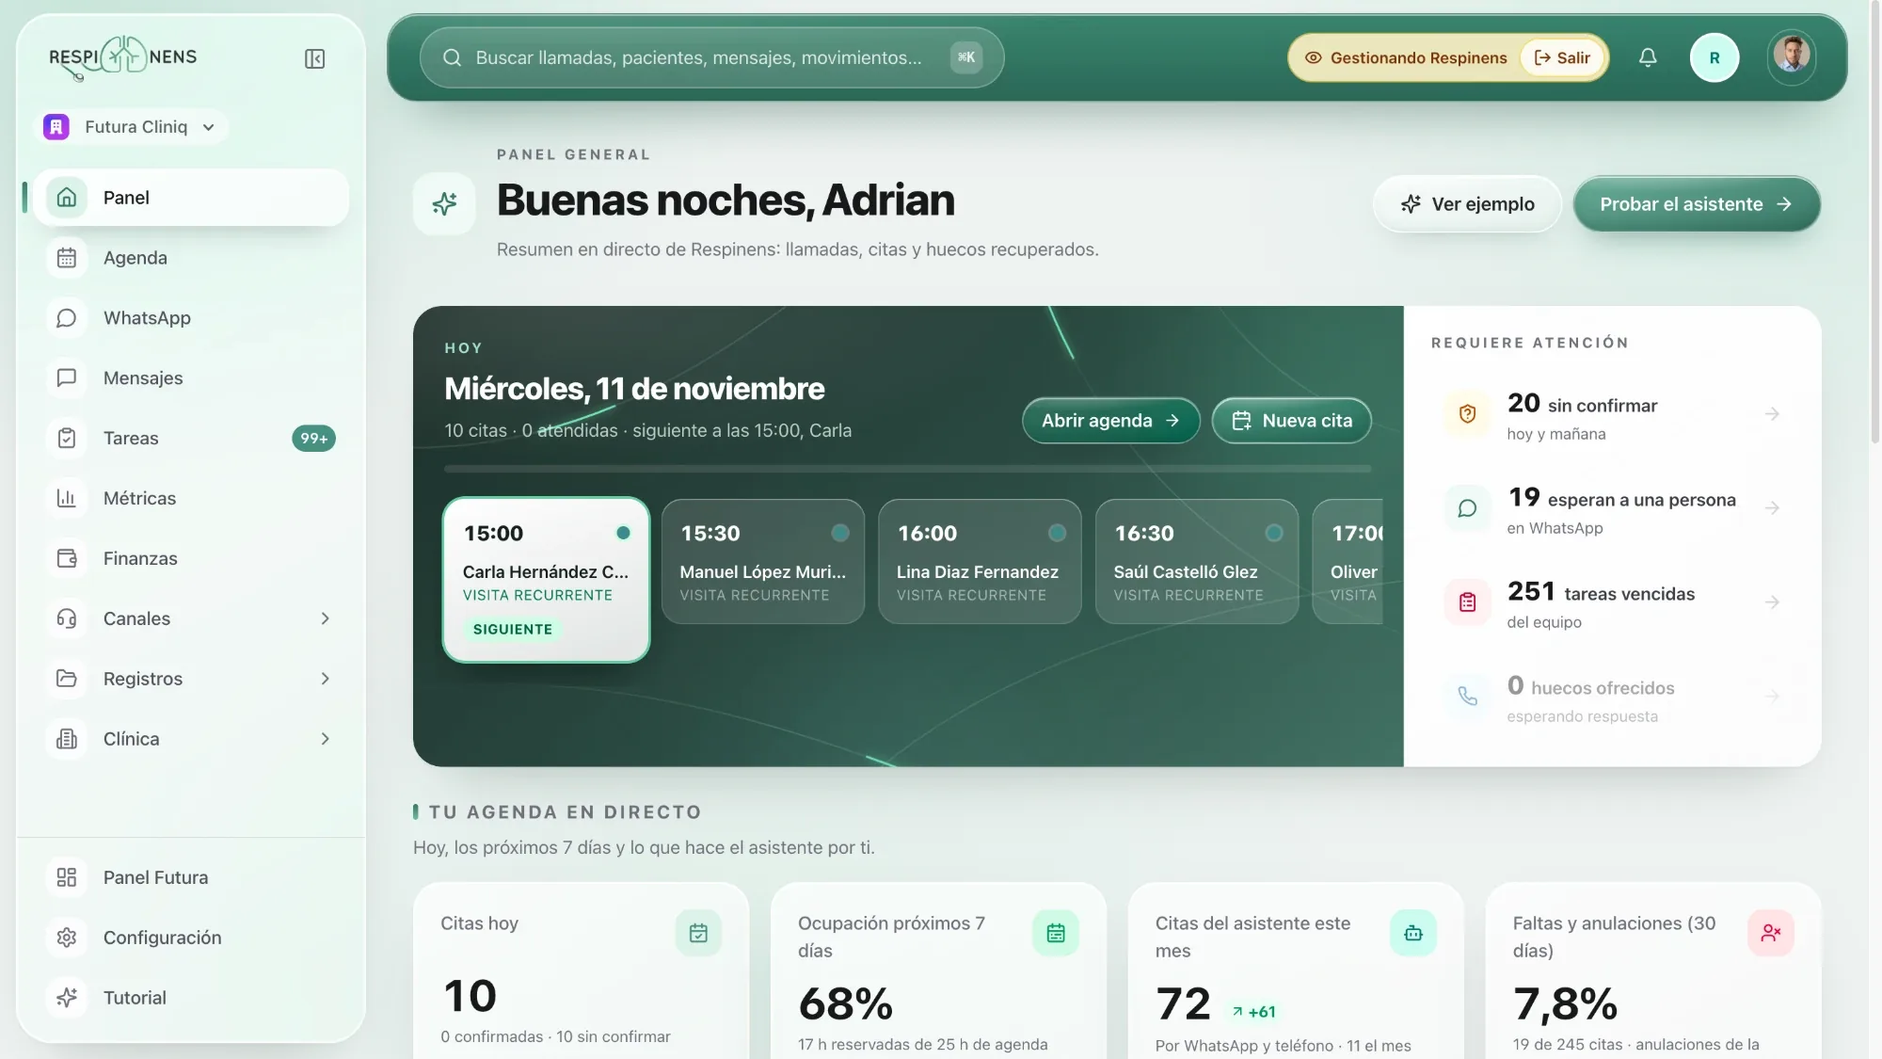
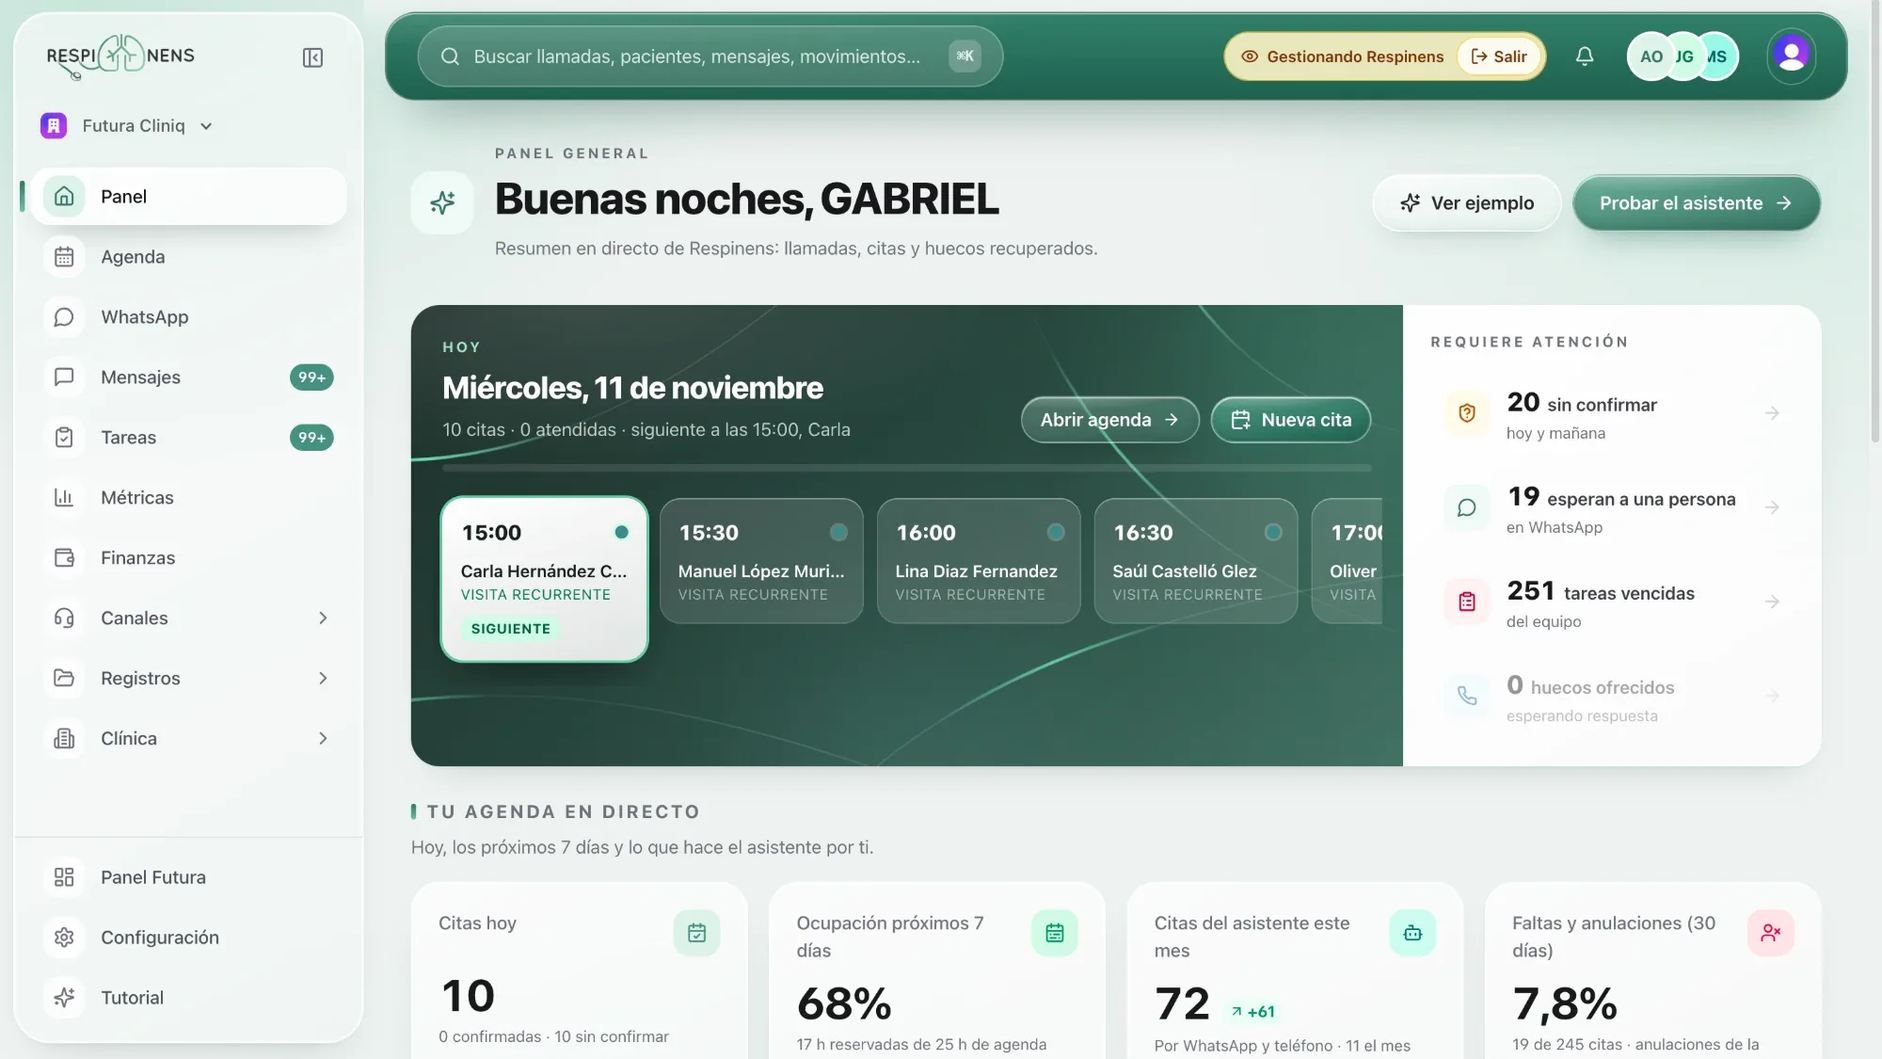
feat: Smile Fast case study; new FUTURA cover
- Smile Fast card (Brandboost AI product): animated before/after smile
  slider as preview, official logo
- Modal: slider cover, intro, stats (+38% visitor to lead, 65% of leads
  book, from the product site), the four real patient-journey screens,
  five value cards with motions and benefit chips (realistic simulation,
  AI clinical analysis, instant qualified lead, realistic video, funnel)
- Example phone number blurred in the first journey screen
- FUTURA cover replaced with the new dashboard screenshot

Claude-Session: https://claude.ai/code/session_013VtYwE7Ekungkn3F8TWYDq

diff --git a/src/components/project/smile-motions.tsx b/src/components/project/smile-motions.tsx
@@ -1,0 +1,127 @@
+"use client";
+
+import { Frame } from "@/components/project/motions";
+
+/* Before / after slider: the "after" layer is revealed by a moving divider. */
+export function BeforeAfter({ className = "", labels = true }: { className?: string; labels?: boolean }) {
+  return (
+    <div className={`overflow-hidden ${className}`}>
+      {/* eslint-disable-next-line @next/next/no-img-element */}
+      <img src="/smilefast/before.webp" alt="Antes" className="absolute inset-0 w-full h-full object-cover object-[50%_35%]" />
+      <div className="sf-after absolute inset-0">
+        {/* eslint-disable-next-line @next/next/no-img-element */}
+        <img src="/smilefast/after.webp" alt="Simulación" className="absolute inset-0 w-full h-full object-cover object-[50%_35%]" />
+      </div>
+      <span className="sf-divider absolute inset-y-0 w-[2px] bg-white shadow-[0_0_12px_rgba(0,0,0,0.35)]">
+        <span className="absolute top-1/2 left-1/2 -translate-x-1/2 -translate-y-1/2 w-8 h-8 rounded-full bg-white/90 border border-white shadow-lg grid place-items-center text-[11px] text-carbon-950">‹›</span>
+      </span>
+      {labels && (
+        <>
+          <span className="absolute left-3 top-3 rounded-full bg-black/45 px-2.5 py-1 text-[9px] font-semibold tracking-[0.16em] text-white backdrop-blur-sm">ANTES</span>
+          <span className="absolute right-3 top-3 rounded-full bg-ember-500 px-2.5 py-1 text-[9px] font-semibold tracking-[0.16em] text-white">PROYECCIÓN</span>
+        </>
+      )}
+    </div>
+  );
+}
+export function MSim() {
+  return (
+    <div className="absolute inset-0 p-2">
+      <BeforeAfter className="relative w-full h-full rounded-lg" />
+    </div>
+  );
+}
+
+// Clinical analysis: VITA shade scale, target lands on B1
+const SHADES = ["#f6f1e4", "#f1ead7", "#ece2c8", "#e6d8b6", "#ddcca2", "#d3be8d"];
+export function MVita() {
+  const labels = ["B1", "A1", "B2", "A2", "A3", "A3.5"];
+  return (
+    <Frame label="Tono VITA · 6 parámetros">
+      <div className="absolute inset-0 flex flex-col justify-center gap-2">
+        <div className="relative flex gap-1.5">
+          {SHADES.map((c, i) => (
+            <div key={i} className="flex-1 flex flex-col items-center gap-1">
+              <span className="w-full h-9 rounded-md" style={{ background: c }} />
+              <span className="text-[9px] text-white/50">{labels[i]}</span>
+            </div>
+          ))}
+          <span className="sf-target absolute top-[-4px] h-[44px] rounded-lg border-2 border-ember-500 shadow-[0_0_14px_rgba(255,90,31,0.6)]" />
+        </div>
+        <span className="flex gap-1.5 text-[9px] text-white/45">
+          {["Proporción áurea", "Arco", "Encía"].map((t) => (
+            <span key={t} className="rounded-full border border-white/10 px-2 py-[2px]">{t}</span>
+          ))}
+        </span>
+      </div>
+    </Frame>
+  );
+}
+
+// Qualified lead lands in the panel and moves to booked
+export function MLead() {
+  return (
+    <Frame label="Panel · Leads">
+      <div className="absolute inset-0 flex items-center">
+        <div className="sf-lead w-full flex items-center gap-3 rounded-xl border border-white/10 bg-white/[0.05] px-3 py-2.5">
+          <span className="relative w-9 h-9 rounded-lg overflow-hidden shrink-0">
+            {/* eslint-disable-next-line @next/next/no-img-element */}
+            <img src="/smilefast/after.webp" alt="" className="w-full h-full object-cover object-[50%_30%]" />
+          </span>
+          <span className="flex-1 min-w-0">
+            <span className="block text-[11px] font-semibold text-white">María F.</span>
+            <span className="block text-[9px] text-white/50 whitespace-nowrap">Simulación · WhatsApp</span>
+          </span>
+          <span className="relative h-5 w-[78px] text-[9px] font-semibold">
+            <span className="sf-st sf-st-1 absolute inset-0 grid place-items-center rounded-full bg-ember-500 text-white">NUEVO</span>
+            <span className="sf-st sf-st-2 absolute inset-0 grid place-items-center rounded-full bg-white/10 text-white/80">Contactado</span>
+            <span className="sf-st sf-st-3 absolute inset-0 grid place-items-center rounded-full bg-white text-carbon-950">✓ Cita</span>
+          </span>
+        </div>
+      </div>
+    </Frame>
+  );
+}
+
+// Realistic video of the new smile
+export function MVideo() {
+  return (
+    <div className="absolute inset-0 p-2">
+      <div className="relative w-full h-full rounded-lg overflow-hidden">
+        {/* eslint-disable-next-line @next/next/no-img-element */}
+        <img src="/smilefast/after.webp" alt="" className="sf-kb absolute inset-0 w-full h-full object-cover object-[50%_32%]" />
+        <div className="absolute inset-0 bg-gradient-to-t from-black/60 via-transparent to-transparent" />
+        <span className="absolute left-3 top-3 rounded-full bg-black/45 px-2.5 py-1 text-[9px] font-semibold tracking-[0.16em] text-white backdrop-blur-sm">VÍDEO REALISTA</span>
+        <div className="absolute left-3 right-3 bottom-3 flex items-center gap-2.5">
+          <span className="w-6 h-6 rounded-full bg-white grid place-items-center">
+            <svg viewBox="0 0 12 12" className="w-2.5 h-2.5 ml-[1px]"><path d="M3 2l7 4-7 4z" fill="#0a0a0a" /></svg>
+          </span>
+          <span className="relative flex-1 h-1 rounded-full bg-white/30 overflow-hidden">
+            <span className="sf-progress absolute inset-0 bg-ember-500 origin-left" />
+          </span>
+        </div>
+      </div>
+    </div>
+  );
+}
+
+// Funnel: visitor -> simulates -> lead -> booked
+export function MFunnel() {
+  const steps = ["Visitante", "Se simula", "Deja sus datos", "Agenda"];
+  return (
+    <Frame label="Embudo">
+      <div className="absolute inset-0 flex items-center px-6">
+        <div className="relative w-full flex justify-between">
+          <span className="absolute left-3 right-3 top-[9px] h-px bg-white/12" />
+          <span className="sf-flow absolute top-[5px] w-2.5 h-2.5 -ml-[5px] rounded-full bg-ember-500 shadow-[0_0_12px_rgba(255,90,31,0.9)]" />
+          {steps.map((s, i) => (
+            <span key={s} className="relative flex flex-col items-center gap-2 w-0">
+              <span className={`sf-node sf-node-${i} w-[18px] h-[18px] rounded-full border border-white/20 bg-[#121010]`} />
+              <span className="whitespace-nowrap text-[10px] text-white/55">{s}</span>
+            </span>
+          ))}
+        </div>
+      </div>
+    </Frame>
+  );
+}

diff --git a/src/lib/i18n.tsx b/src/lib/i18n.tsx
@@ -17,6 +17,33 @@ const translations: Record<Language, Translations> = {
     fin_v_comprobantes_benefit: "Menos riesgo",
     fin_v_entradas_benefit: "Más tiempo libre",
     synex_eyebrow: "Caso propio",
+    sf_tag: "Producto · Brandboost AI",
+    sf_card_roi: "Simulación de sonrisa con IA para clínicas dentales: el visitante **ve su nueva sonrisa**, deja sus datos y agenda.",
+    sf_tags: "IA generativa, Captación de leads, Clínicas dentales, Vídeo",
+    sf_title: "La herramienta que llena la clínica.",
+    sf_desc: "Los visitantes de la web de una clínica dental suben una selfie, **ven su nueva sonrisa al instante** y dejan sus datos listos para agendar. Activo en 1 día, con la marca de cada clínica.",
+    sf_stat_1: "de visitante a lead",
+    sf_stat_2: "de esos leads agenda cita",
+    sf_step_1: "Deja sus datos: ya es un lead.",
+    sf_step_2: "Sube una selfie, sin descargas.",
+    sf_step_3: "La IA analiza su sonrisa.",
+    sf_step_4: "Ve su antes y después y agenda.",
+    sf_v_sim_title: "Simulación realista",
+    sf_v_sim_desc: "Una vista fotorrealista de su sonrisa post-tratamiento: la duda se convierte en **ganas de agendar**.",
+    sf_v_sim_benefit: "Más pacientes de alto valor",
+    sf_v_analisis_title: "Análisis clínico con IA",
+    sf_v_analisis_desc: "Analiza **6 parámetros clínicos**: tono VITA, inventario dental, macroestética, proporción áurea, arco y encía.",
+    sf_v_analisis_benefit: "Resultados creíbles",
+    sf_v_lead_title: "Lead cualificado al instante",
+    sf_v_lead_desc: "Nombre, email y WhatsApp **junto a su simulación**, en el panel de la clínica para contactar en la primera hora.",
+    sf_v_lead_benefit: "Más citas",
+    sf_v_video_title: "Vídeo realista",
+    sf_v_video_desc: "Además de la foto, el paciente **se ve sonreír en movimiento**: lo que termina de convencerlo.",
+    sf_v_video_benefit: "Más planes aceptados",
+    sf_v_embudo_title: "Embudo que convierte",
+    sf_v_embudo_desc: "Del clic anónimo al paciente nuevo: el visitante **se simula, deja sus datos y agenda con intención**.",
+    sf_v_embudo_benefit: "Menos gasto en publicidad",
+    sf_result: "Cada visita se convierte en un lead con foto y contacto, y **la clínica cierra hasta 3 veces más planes de estética**.",
     fu_tag: "Cliente · Futura Solutions",
     fu_shot_agenda: "Agenda del día con primeras visitas, estados y quién quiere adelantar.",
     fu_shot_wa: "Bandeja de WhatsApp con el resumen del caso generado por IA al lado de la conversación.",
@@ -272,6 +299,33 @@ const translations: Record<Language, Translations> = {
     fin_v_comprobantes_benefit: "Less risk",
     fin_v_entradas_benefit: "More free time",
     synex_eyebrow: "Own venture",
+    sf_tag: "Product · Brandboost AI",
+    sf_card_roi: "AI smile simulation for dental clinics: visitors **see their new smile**, leave their details and book.",
+    sf_tags: "Generative AI, Lead generation, Dental clinics, Video",
+    sf_title: "The tool that fills the clinic.",
+    sf_desc: "Visitors to a dental clinic's website upload a selfie, **see their new smile instantly** and leave their details ready to book. Live in 1 day, branded for each clinic.",
+    sf_stat_1: "visitor to lead",
+    sf_stat_2: "of those leads book an appointment",
+    sf_step_1: "Leaves their details: now a lead.",
+    sf_step_2: "Uploads a selfie, no downloads.",
+    sf_step_3: "AI analyses their smile.",
+    sf_step_4: "Sees their before and after, and books.",
+    sf_v_sim_title: "Realistic simulation",
+    sf_v_sim_desc: "A photorealistic preview of their post-treatment smile: doubt turns into **wanting to book**.",
+    sf_v_sim_benefit: "More high-value patients",
+    sf_v_analisis_title: "AI clinical analysis",
+    sf_v_analisis_desc: "Analyses **6 clinical parameters**: VITA shade, dental inventory, macro-aesthetics, golden ratio, smile arc and gums.",
+    sf_v_analisis_benefit: "Credible results",
+    sf_v_lead_title: "Instant qualified lead",
+    sf_v_lead_desc: "Name, email and WhatsApp **with their simulation**, in the clinic's panel to contact within the first hour.",
+    sf_v_lead_benefit: "More appointments",
+    sf_v_video_title: "Realistic video",
+    sf_v_video_desc: "Beyond the photo, patients **see themselves smiling in motion**: what finally convinces them.",
+    sf_v_video_benefit: "More plans accepted",
+    sf_v_embudo_title: "A funnel that converts",
+    sf_v_embudo_desc: "From anonymous click to new patient: the visitor **simulates, leaves details and books with intent**.",
+    sf_v_embudo_benefit: "Less ad spend",
+    sf_result: "Every visit becomes a lead with photo and contact, and **clinics close up to 3x more cosmetic plans**.",
     fu_tag: "Client · Futura Solutions",
     fu_shot_agenda: "Daily schedule with first visits, statuses and who wants an earlier slot.",
     fu_shot_wa: "WhatsApp inbox with the AI-generated case summary next to the conversation.",

diff --git a/src/components/SmileFastProject.tsx b/src/components/SmileFastProject.tsx
@@ -1,0 +1,109 @@
+"use client";
+
+import { useAudio } from "@/lib/audio";
+import { rich } from "@/lib/rich";
+import { useLanguage } from "@/lib/i18n";
+import { Tag, CaseIntro, StatPair, ValueCard, CardFooterLink } from "@/components/project/kit";
+import { BeforeAfter, MSim, MVita, MLead, MVideo, MFunnel } from "@/components/project/smile-motions";
+
+const VALUES = [
+  { k: "sim", M: MSim },
+  { k: "analisis", M: MVita },
+  { k: "lead", M: MLead },
+  { k: "video", M: MVideo },
+  { k: "embudo", M: MFunnel },
+];
+const STEPS = [1, 2, 3, 4];
+
+function SmileFastLogo({ className = "" }: { className?: string }) {
+  // eslint-disable-next-line @next/next/no-img-element
+  return <img src="/smilefast/logo.png" alt="Smile Fast" className={`w-auto ${className}`} />;
+}
+
+export function SmileFastCard({ onOpen }: { onOpen: () => void }) {
+  const { t } = useLanguage();
+  const { playEarcon } = useAudio();
+  return (
+    <button
+      type="button"
+      className="reveal glass glass-hover group text-left snap-start shrink-0 w-[84vw] sm:w-[60vw] lg:w-[520px] rounded-[28px] p-2 flex flex-col"
+      onMouseEnter={playEarcon}
+      onClick={() => {
+        playEarcon();
+        onOpen();
+      }}
+    >
+      <div className="pm-stage relative z-10 aspect-[16/10] rounded-[22px] overflow-hidden bg-[#9fb3c6]">
+        <BeforeAfter className="absolute inset-0 transition-transform duration-700 ease-[cubic-bezier(0.16,1,0.3,1)] group-hover:scale-[1.03]" />
+      </div>
+      <div className="relative z-10 flex-1 flex flex-col px-4 pt-5 pb-4">
+        <span className="text-[12px] font-medium text-ember-400"><span className="font-semibold">{"//"}</span> {t("sf_tag")}</span>
+        <h3 className="mt-3 mb-1"><SmileFastLogo className="h-[22px]" /></h3>
+        <p className="mt-2 text-sm leading-relaxed text-white/55 flex-1">{rich(t("sf_card_roi"))}</p>
+        <div className="mt-5 flex flex-wrap gap-1.5">
+          {t("sf_tags").split(", ").slice(0, 3).map((tag) => <Tag key={tag}>{tag}</Tag>)}
+        </div>
+        <CardFooterLink label={t("read_more")} />
+      </div>
+    </button>
+  );
+}
+
+export function SmileFastDetail() {
+  const { t } = useLanguage();
+  return (
+    <>
+      <div className="pm-stage relative h-64 md:h-80 rounded-[22px] overflow-hidden border border-white/10 bg-[#9fb3c6]">
+        <BeforeAfter className="absolute inset-0" />
+        <div className="absolute left-4 bottom-4 rounded-full bg-black/70 backdrop-blur-md border border-white/10 px-4 py-2.5">
+          <SmileFastLogo className="h-4" />
+        </div>
+      </div>
+
+      <CaseIntro eyebrow={t("sf_tag")} title={t("sf_title")} desc={t("sf_desc")} />
+      <StatPair a={["+38%", t("sf_stat_1")]} b={["65%", t("sf_stat_2")]} />
+
+      {/* The patient journey, real screens */}
+      <div className="mt-6 rounded-2xl border border-white/[0.07] bg-white/[0.03] p-3">
+        <div className="grid grid-cols-2 sm:grid-cols-4 gap-2.5">
+          {STEPS.map((n) => (
+            <figure key={n}>
+              <div className="aspect-[3/4] rounded-xl overflow-hidden bg-white">
+                {/* eslint-disable-next-line @next/next/no-img-element */}
+                <img loading="lazy" decoding="async" src={`/smilefast/step${n}.webp`} alt={t(`sf_step_${n}`)} className="w-full h-full object-cover object-top" />
+              </div>
+              <figcaption className="mt-2 px-0.5 text-[12px] leading-snug text-white/60">
+                <span className="text-ember-500 font-semibold mr-1">{String(n).padStart(2, "0")}</span>
+                {t(`sf_step_${n}`)}
+              </figcaption>
+            </figure>
+          ))}
+        </div>
+      </div>
+
+      <ul className="mt-3 grid sm:grid-cols-2 gap-3">
+        {VALUES.map(({ k, M }, i) => (
+          <ValueCard
+            key={k}
+            Motion={M}
+            title={t(`sf_v_${k}_title`)}
+            desc={t(`sf_v_${k}_desc`)}
+            benefit={t(`sf_v_${k}_benefit`)}
+            wide={i === VALUES.length - 1}
+          />
+        ))}
+      </ul>
+
+      <p className="mt-8 text-base leading-relaxed text-white/65">
+        <span className="text-ember-500 font-semibold mr-2">{"//"}</span>
+        {rich(t("sf_result"))}
+      </p>
+
+      <div className="mt-8 flex flex-wrap items-center justify-between gap-4">
+        <div className="flex flex-wrap gap-1.5">
+          {t("sf_tags").split(", ").map((tag) => <Tag key={tag}>{tag}</Tag>)}
+        </div>
+      </div>
+    </>
+  );
+}

diff --git a/src/app/globals.css b/src/app/globals.css
@@ -671,3 +671,34 @@ html.lite .line-drift { animation: none; }
 @media (prefers-reduced-motion: reduce) {
   [class*="fu-"] { animation: none !important; opacity: 1 !important; transform: none !important; }
 }
+
+/* ---- Smile Fast motions ---- */
+.sf-after { clip-path: inset(0 0 0 50%); animation: sf-after 6s cubic-bezier(0.65, 0, 0.35, 1) infinite; }
+@keyframes sf-after { 0%, 8% { clip-path: inset(0 0 0 82%); } 42%, 58% { clip-path: inset(0 0 0 18%); } 92%, 100% { clip-path: inset(0 0 0 82%); } }
+.sf-divider { left: 50%; animation: sf-divider 6s cubic-bezier(0.65, 0, 0.35, 1) infinite; }
+@keyframes sf-divider { 0%, 8% { left: 82%; } 42%, 58% { left: 18%; } 92%, 100% { left: 82%; } }
+.sf-target { left: 0; width: calc((100% - 7.5px) / 6); animation: sf-target 5s cubic-bezier(0.65, 0, 0.35, 1) infinite; }
+@keyframes sf-target { 0%, 10% { transform: translateX(calc(300% + 4.5px)); opacity: 0.4; } 45%, 85% { transform: translateX(0); opacity: 1; } 100% { transform: translateX(calc(300% + 4.5px)); opacity: 0.4; } }
+.sf-lead { animation: sf-lead 6s cubic-bezier(0.16, 1, 0.3, 1) infinite; }
+@keyframes sf-lead { 0%, 4% { opacity: 0; transform: translateY(10px) scale(0.97); } 12%, 88% { opacity: 1; transform: none; } 96%, 100% { opacity: 0; } }
+.sf-st { opacity: 0; animation: 6s ease infinite; }
+.sf-st-1 { animation-name: sf-st-1; } .sf-st-2 { animation-name: sf-st-2; } .sf-st-3 { animation-name: sf-st-3; }
+@keyframes sf-st-1 { 0%, 10% { opacity: 0; } 14%, 36% { opacity: 1; } 40%, 100% { opacity: 0; } }
+@keyframes sf-st-2 { 0%, 38% { opacity: 0; } 42%, 60% { opacity: 1; } 64%, 100% { opacity: 0; } }
+@keyframes sf-st-3 { 0%, 62% { opacity: 0; transform: scale(0.9); } 66%, 88% { opacity: 1; transform: none; } 94%, 100% { opacity: 0; } }
+.sf-kb { animation: sf-kb 8s ease-in-out infinite alternate; transform-origin: 50% 35%; }
+@keyframes sf-kb { from { transform: scale(1); } to { transform: scale(1.12); } }
+.sf-progress { animation: sf-progress 8s linear infinite; }
+@keyframes sf-progress { from { transform: scaleX(0); } to { transform: scaleX(1); } }
+.sf-flow { left: 12px; animation: sf-flow 6s cubic-bezier(0.65, 0, 0.35, 1) infinite; }
+@keyframes sf-flow { 0% { left: 9px; opacity: 0; } 6%, 14% { left: 9px; opacity: 1; } 34%, 40% { left: 33.33%; } 60%, 66% { left: 66.66%; } 86%, 92% { left: calc(100% - 9px); opacity: 1; } 100% { left: calc(100% - 9px); opacity: 0; } }
+.sf-node { animation: 6s ease infinite; }
+.sf-node-0 { animation-name: sf-node-0; } .sf-node-1 { animation-name: sf-node-1; } .sf-node-2 { animation-name: sf-node-2; } .sf-node-3 { animation-name: sf-node-3; }
+@keyframes sf-node-0 { 0%, 6% { background: #121010; } 10%, 92% { background: #FF5A1F; border-color: #FF5A1F; } 100% { background: #121010; } }
+@keyframes sf-node-1 { 0%, 34% { background: #121010; } 38%, 92% { background: #FF5A1F; border-color: #FF5A1F; } 100% { background: #121010; } }
+@keyframes sf-node-2 { 0%, 60% { background: #121010; } 64%, 92% { background: #FF5A1F; border-color: #FF5A1F; } 100% { background: #121010; } }
+@keyframes sf-node-3 { 0%, 86% { background: #121010; } 89%, 92% { background: #fff; border-color: #fff; box-shadow: 0 0 14px rgba(255,255,255,0.6); } 100% { background: #121010; } }
+@media (prefers-reduced-motion: reduce) {
+  [class*="sf-"] { animation: none !important; }
+  .sf-st-1, .sf-st-2 { opacity: 0 !important; } .sf-st-3 { opacity: 1 !important; }
+}

diff --git a/src/components/CaseStudies.tsx b/src/components/CaseStudies.tsx
@@ -10,6 +10,7 @@ import { CarouselArrows } from "@/components/ui/CarouselArrows";
 import { SynexCard, SynexDetail } from "@/components/SynexProject";
 import { FinanzasCard, FinanzasDetail } from "@/components/FinanzasProject";
 import { FuturaCard, FuturaDetail } from "@/components/FuturaProject";
+import { SmileFastCard, SmileFastDetail } from "@/components/SmileFastProject";
 
 const BRANDBOOST_LOGO = "https://res.cloudinary.com/dcnik6ovx/image/upload/v1775668501/Brandboost_AI_2_mm6lwr_kda9lz.png";
 
@@ -80,6 +81,7 @@ export function CaseStudies() {
   const [synexOpen, setSynexOpen] = useState(false);
   const [finOpen, setFinOpen] = useState(false);
   const [fuOpen, setFuOpen] = useState(false);
+  const [sfOpen, setSfOpen] = useState(false);
 
 
   const data = STUDIES.map((s) => ({
@@ -106,6 +108,7 @@ export function CaseStudies() {
         style={{ scrollbarWidth: "none" }}
       >
         <FuturaCard onOpen={() => setFuOpen(true)} />
+        <SmileFastCard onOpen={() => setSfOpen(true)} />
         <SynexCard onOpen={() => setSynexOpen(true)} />
         <FinanzasCard onOpen={() => setFinOpen(true)} />
         {data.map((study, i) => (
@@ -151,6 +154,10 @@ export function CaseStudies() {
 
       <Modal open={fuOpen} onClose={() => setFuOpen(false)} className="max-w-3xl">
         {fuOpen && <FuturaDetail />}
+      </Modal>
+
+      <Modal open={sfOpen} onClose={() => setSfOpen(false)} className="max-w-3xl">
+        {sfOpen && <SmileFastDetail />}
       </Modal>
 
       <Modal open={finOpen} onClose={() => setFinOpen(false)} className="max-w-3xl">
